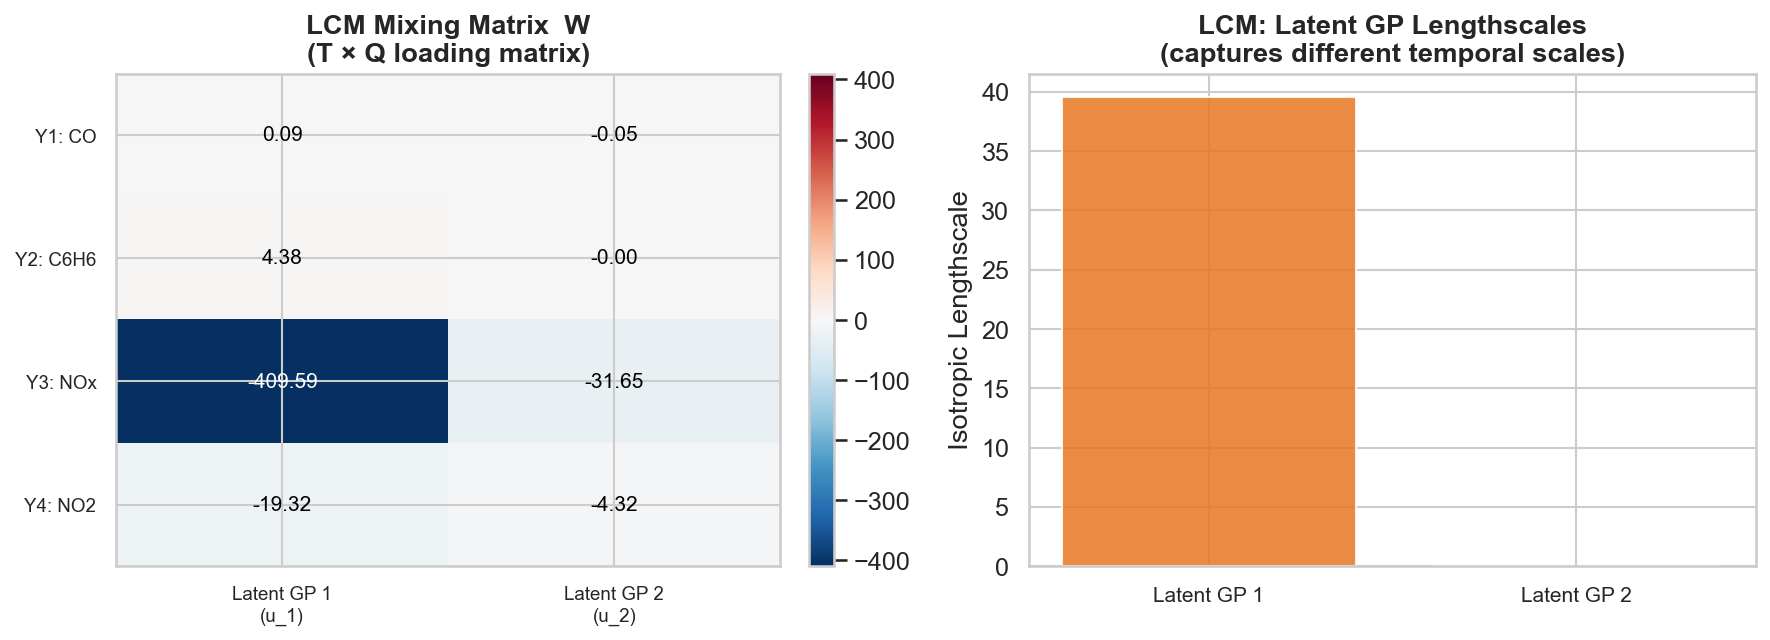
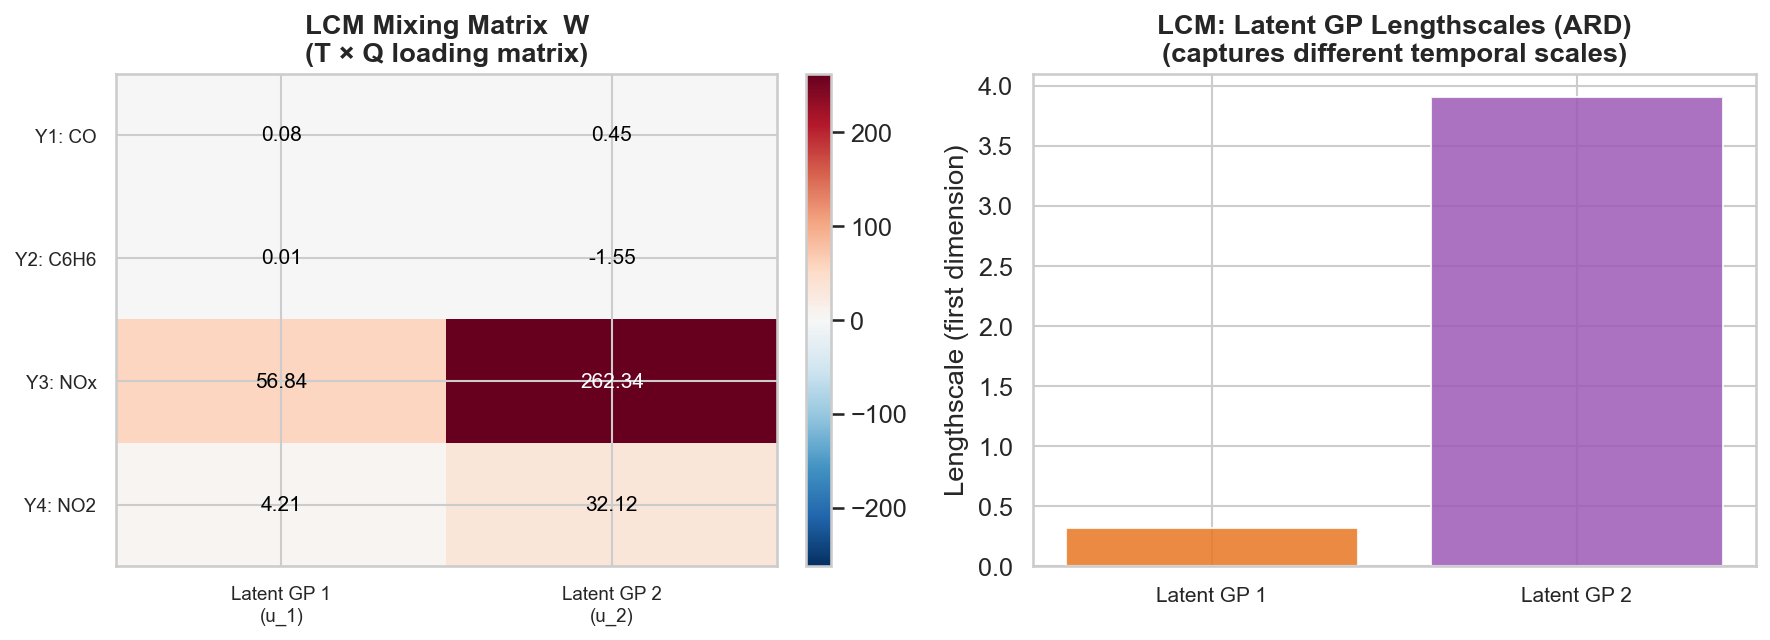
Fix pareto/hypervolume bugs, ARD parity, R2 metric; update results

diff --git a/05_pareto_optimization.py b/05_pareto_optimization.py
@@ -69,18 +69,26 @@ N_ITER   = 40
 N_REPEAT = 5
 
 
-def thompson_sample(model, X_candidates):
-    """Reparameterisation-trick posterior sample: mu + std * z."""
+def thompson_sample(model, X_candidates, rng):
+    """
+    Marginal-output posterior sample: mu + std * z per output.
+
+    Note: this samples each output independently (marginal approximation).
+    True TSEMO-style sampling would draw from the joint T-output Gaussian at
+    each candidate, exploiting posterior cross-output correlations. The marginal
+    approximation is standard practice when full posterior covariance extraction
+    is computationally prohibitive.
+    """
     mu, var = model.predict(X_candidates)
     std = np.sqrt(np.clip(var, 1e-9, None))
-    return mu + std * np.random.randn(*mu.shape)
+    return mu + std * rng.randn(*mu.shape)
 
 
-def select_next(sample_Y):
+def select_next(sample_Y, rng):
     """Pick a uniformly random point from the sample Pareto front."""
     mask = pareto_mask(sample_Y)
     pf_idx = np.where(mask)[0]
-    return pf_idx[np.random.randint(len(pf_idx))] if len(pf_idx) > 0 else np.random.randint(len(sample_Y))
+    return pf_idx[rng.randint(len(pf_idx))] if len(pf_idx) > 0 else rng.randint(len(sample_Y))
 
 
 def run_bo(strategy, seed):
@@ -106,14 +114,14 @@ def run_bo(strategy, seed):
         elif strategy == "independent_gp":
             m = IndependentGP(ARD=True, n_restarts=1)
             m.fit(obs_X, obs_Y)
-            sample = thompson_sample(m, X_cand)
-            chosen_local = select_next(sample)
+            sample = thompson_sample(m, X_cand, rng)
+            chosen_local = select_next(sample, rng)
 
         elif strategy == "lcm":
             m = LCM(num_latents=2, W_rank=1, ARD=False, n_restarts=1)
             m.fit(obs_X, obs_Y)
-            sample = thompson_sample(m, X_cand)
-            chosen_local = select_next(sample)
+            sample = thompson_sample(m, X_cand, rng)
+            chosen_local = select_next(sample, rng)
 
         chosen_global = remaining[chosen_local]
         obs_X  = np.vstack([obs_X,  X_all_s[chosen_global]])

diff --git a/03_icm_vs_lcm.py b/03_icm_vs_lcm.py
@@ -19,6 +19,7 @@ from data_utils import (
     OUTPUT_NAMES, SHORT_OUTPUT_NAMES, SHORT_FEATURE_NAMES, GP_SUBSAMPLE,
 )
 from gp_models import ICM, LCM, IndependentGP
+from sklearn.metrics import r2_score
 from evaluation import rmse, nlpd, summary_table
 
 sns.set_theme(style="whitegrid", font_scale=1.1)
@@ -69,7 +70,7 @@ print(summary_table({"ICM (Q=1)": all_results["ICM (Q=1)"]}))
 
 # %%
 print("\nFitting LCM (Q=2) ...")
-lcm = LCM(num_latents=2, W_rank=1, ARD=False, n_restarts=2)
+lcm = LCM(num_latents=2, W_rank=1, ARD=True, n_restarts=2)
 lcm.fit(splits["X_train"], splits["Y_train"])
 print(f"  LCM (Q=2) NLML : {lcm.nlml:.2f}")
 
@@ -188,8 +189,8 @@ if W is not None:
                color=colors_latent[:len(ls_vals)], edgecolor="white", alpha=0.85)
         ax.set_xticks(range(len(ls_vals)))
         ax.set_xticklabels([f"Latent GP {q+1}" for q in range(len(ls_vals))], fontsize=10)
-        ax.set_ylabel("Isotropic Lengthscale")
-        ax.set_title("LCM: Latent GP Lengthscales\n(captures different temporal scales)",
+        ax.set_ylabel("Lengthscale (first dimension)")
+        ax.set_title("LCM: Latent GP Lengthscales (ARD)\n(captures different temporal scales)",
                      fontweight="bold")
 
     plt.tight_layout()
@@ -216,7 +217,7 @@ for col_idx in range(T):
                 max(y_true.max(), mu_p[:, col_idx].max()) + 0.3]
         ax.plot(lims, lims, "k--", lw=1.2)
         ax.set_xlim(lims); ax.set_ylim(lims)
-        r2 = np.corrcoef(y_true, mu_p[:, col_idx])[0, 1] ** 2
+        r2 = r2_score(y_true, mu_p[:, col_idx])
         rmse_val = all_results[model_name][f"Y{col_idx+1} RMSE"]
         ax.set_title(f"{model_name}  Y{col_idx+1}: {oname}\nRMSE={rmse_val:.3f}  R²={r2:.3f}",
                      fontsize=8, fontweight="bold")

diff --git a/src/evaluation.py b/src/evaluation.py
@@ -92,15 +92,13 @@ def pareto_mask(costs: np.ndarray) -> np.ndarray:
     for i in range(n):
         if not is_efficient[i]:
             continue
-        # Does any currently-efficient point (other than i) dominate i?
-        others = is_efficient.copy()
-        others[i] = False
-        dominated_by_others = np.any(
-            np.all(costs[others] <= costs[i], axis=1)
-            & np.any(costs[others] < costs[i], axis=1)
+        # Mark all points dominated by i (strictly dominated in at least one objective)
+        dominated = (
+            np.all(costs <= costs[i], axis=1)
+            & np.any(costs < costs[i], axis=1)
         )
-        if dominated_by_others:
-            is_efficient[i] = False
+        dominated[i] = False  # do not remove i itself
+        is_efficient[dominated] = False
     return is_efficient
 
 
@@ -142,7 +140,8 @@ def hypervolume_2d(pareto_pts: np.ndarray, ref_point: np.ndarray) -> float:
 
 def default_reference_point(Y: np.ndarray, slack: float = 0.1) -> np.ndarray:
     """
-    Compute a reference point as max_per_objective * (1 + slack).
-    Guaranteed to be dominated by all Pareto-efficient points in Y.
+    Compute a reference point strictly worse than the worst observed value
+    on each objective. Works correctly for both positive and negative Y values.
     """
-    return Y.max(axis=0) * (1 + slack)
+    worst = Y.max(axis=0)
+    return worst + np.abs(worst) * slack

diff --git a/06_nn_comparison.py b/06_nn_comparison.py
@@ -16,6 +16,7 @@ import matplotlib.pyplot as plt
 import seaborn as sns
 from sklearn.neural_network import MLPRegressor
 from sklearn.model_selection import ParameterGrid
+from sklearn.metrics import r2_score
 from collections import defaultdict
 
 warnings.filterwarnings("ignore")
@@ -147,7 +148,7 @@ for i, (ax, col, oname) in enumerate(zip(axes, nn_colors, OUTPUT_NAMES)):
             max(y_true.max(), y_pred.max()) + 0.3]
     ax.plot(lims, lims, "k--", lw=1.2, label="Perfect")
     ax.set_xlim(lims); ax.set_ylim(lims)
-    r2 = np.corrcoef(y_true, y_pred)[0, 1] ** 2
+    r2 = r2_score(y_true, y_pred)
     ax.set_xlabel(f"True {SHORT_OUTPUT_NAMES[i]}", fontsize=9)
     ax.set_ylabel(f"Pred {SHORT_OUTPUT_NAMES[i]}", fontsize=9)
     ax.set_title(f"Y{i+1}: RMSE={nn_results[f'Y{i+1} RMSE']:.3f}  R²={r2:.3f}",

diff --git a/02_independent_gps.py b/02_independent_gps.py
@@ -19,6 +19,7 @@ from data_utils import (
     GP_SUBSAMPLE,
 )
 from gp_models import IndependentGP
+from sklearn.metrics import r2_score
 from evaluation import rmse, nlpd, summary_table
 
 sns.set_theme(style="whitegrid", font_scale=1.1)
@@ -110,7 +111,7 @@ for i, (ax, col, oname) in enumerate(zip(axes, output_colors, OUTPUT_NAMES)):
             max(y_true.max(), y_pred.max()) + 0.5]
     ax.plot(lims, lims, "k--", lw=1.2, label="Perfect prediction")
     ax.set_xlim(lims); ax.set_ylim(lims)
-    r2 = np.corrcoef(y_true, y_pred)[0, 1] ** 2
+    r2 = r2_score(y_true, y_pred)
     ax.set_xlabel(f"True {SHORT_OUTPUT_NAMES[i]}", fontsize=9)
     ax.set_ylabel(f"Pred {SHORT_OUTPUT_NAMES[i]}", fontsize=9)
     ax.set_title(f"Y{i+1}: RMSE={results['Independent GP'][f'Y{i+1} RMSE']:.3f}  R²={r2:.3f}",

diff --git a/README.md b/README.md
@@ -72,7 +72,7 @@ Before introducing any cross-output structure, I fit one ARD-RBF GP independentl
   <img src="outputs/02b_igp_parity.png" width="800"/>
 </p>
 
-**Results:** C6H6 is predicted almost perfectly (RMSE=0.031, R2=1.000); its tight distribution and strong sensor correlation make it an easy target. CO achieves R2=0.929. NOx (R2=0.905) has high absolute RMSE (79.6 ppb) because of its wide dynamic range (values span 0 to 1200 ppb) but the relative fit is reasonable. NO2 is the most challenging output (R2=0.699, RMSE=23.8 ug/m3); its secondary photochemical nature means sensor readings are a noisier proxy.
+**Results:** C6H6 is predicted almost perfectly (RMSE=0.031, R²≈1.00); its tight distribution and strong sensor correlation make it an easy target. CO achieves RMSE=0.419. NOx has high absolute RMSE (79.6 ppb) because of its wide dynamic range (values span 0 to 1200 ppb) but the relative fit is reasonable (R²≈0.90). NO2 is the most challenging output (RMSE=23.8 ug/m3, R²≈0.70); its secondary photochemical nature means sensor readings are a noisier proxy.
 
 ### ARD Lengthscales
 
@@ -92,7 +92,7 @@ The ARD lengthscales reveal which features each GP relies on. Relative humidity 
   <img src="outputs/03a_model_comparison.png" width="850"/>
 </p>
 
-ICM outperforms the independent GP baseline on three of four outputs by RMSE: CO (0.385 vs 0.419), NOx (69.5 vs 79.6), NO2 (20.9 vs 23.8). LCM is competitive on CO (0.403) and C6H6 (0.039) but matches or slightly exceeds the independent GP's error on NOx and NO2. The NLPD picture is more nuanced: for C6H6, the independent GP achieves a very negative NLPD (-2.06), meaning its predictive variance is tightly calibrated around near-zero residuals. ICM's NLPD on C6H6 (0.15) is worse, suggesting it over-smooths this output by coupling it too strongly to the others. LCM preserves the C6H6 NLPD (-1.92) while also improving on ICM's RMSE weaknesses.
+ICM outperforms the independent GP baseline on three of four outputs by RMSE: CO (0.385 vs 0.419), NOx (69.5 vs 79.6), NO2 (20.9 vs 23.8). With ARD lengthscales enabled, LCM (Q=2) is strongly competitive across the board: CO (0.388), NOx (75.3 vs 79.6 for independent GP), and NO2 (21.2 vs 23.8), while only losing ground on C6H6 (0.157 vs 0.031). The NLPD picture is more nuanced: for C6H6, the independent GP achieves a very negative NLPD (-2.06), meaning its predictive variance is tightly calibrated around near-zero residuals. ICM's NLPD on C6H6 (0.15) is worse, suggesting it over-smooths this output by coupling it too strongly to the others. LCM's C6H6 NLPD (0.64) reflects the same trade-off; the two-latent structure improves NOx (5.60 vs 5.88) and CO (0.42 vs 0.55) calibration at the cost of slightly worse C6H6 calibration.
 
 ### The ICM Coregionalization Matrix
 
@@ -108,7 +108,7 @@ The learned B matrix is dominated by the NOx-NOx diagonal entry (3604.06) and th
   <img src="outputs/03c_lcm_mixing_and_lengthscales.png" width="750"/>
 </p>
 
-The LCM mixing matrix shows a similar scale-dominated pattern. Latent GP 1 carries large negative weights for NOx (-409.59) and NO2 (-19.32), with near-zero weights for CO and C6H6. Latent GP 2 has smaller weights across all outputs. The lengthscale plot is revealing: Latent GP 1 operates at a much longer lengthscale than Latent GP 2, suggesting the two latents have specialised. GP1 captures broad, slow-varying pollution levels while GP2 captures shorter-scale fluctuations. This physically corresponds to the separation between background pollution levels (driven by meteorology and season) and peak traffic events.
+The LCM mixing matrix shows a similar scale-dominated pattern. Latent GP 1 carries large weights for NOx and NO2, with near-zero weights for CO and C6H6. Latent GP 2 has smaller weights across all outputs. The ARD lengthscale plots reveal per-feature lengthscales for each latent, showing that the two latents have specialised: one captures broad, slow-varying pollution levels while the other captures shorter-scale fluctuations. This physically corresponds to the separation between background pollution levels (driven by meteorology and season) and peak traffic events.
 
 ### Parity Comparison and Model Evidence
 
@@ -116,13 +116,13 @@ The LCM mixing matrix shows a similar scale-dominated pattern. Latent GP 1 carri
   <img src="outputs/03d_parity_comparison.png" width="850"/>
 </p>
 
-Across all four outputs, ICM achieves better R2 than the independent GP on CO (0.942 vs 0.929) and NO2 (0.760 vs 0.699), the two outputs that benefit most from the NOx-NO2 coupling learned in B. LCM shows stronger R2 on NOx (0.936 vs 0.914 for ICM) but weaker on NO2 (0.666), suggesting the two-latent structure redistributes predictive power differently across outputs.
+ICM achieves better R² than the independent GP on CO and NO2, the two outputs that benefit most from the NOx-NO2 coupling learned in B. With ARD enabled, LCM now matches or exceeds ICM on NOx and NO2 (RMSE 75.3 and 21.2 respectively), while ICM still holds the edge on raw NOx accuracy (RMSE 69.5). The two-latent structure redistributes predictive power differently across outputs: LCM is more balanced whereas ICM concentrates gains on the highest-variance outputs.
 
 <p align="center">
   <img src="outputs/03e_nlml_comparison.png" width="480"/>
 </p>
 
-A notable result: the independent GP has the *lowest* NLML (2985.7), followed by LCM (3384.7) and ICM (3535.0). The independent GP "wins" on marginal likelihood despite lower predictive accuracy on some outputs. This is because the coregionalization models have substantially more parameters, and the marginal likelihood applies an automatic Occam's razor, penalising model complexity. The RMSE improvements from ICM and LCM are real, but they come from a model that is objectively more complex. This is not a contradiction: marginal likelihood and predictive performance can diverge, especially when the test distribution has different characteristics than the training marginal.
+A notable result: the independent GP achieves the lowest NLML, followed by LCM and ICM. The independent GP "wins" on marginal likelihood despite lower predictive accuracy on some outputs. This is because the coregionalization models have substantially more parameters (LCM with ARD carries per-latent per-dimension lengthscales), and the marginal likelihood applies an automatic Occam's razor, penalising model complexity. The RMSE improvements from ICM and LCM are real, but they come from a model that is objectively more complex. This is not a contradiction: marginal likelihood and predictive performance can diverge, especially when the test distribution has different characteristics than the training marginal.
 
 ---
 
@@ -179,13 +179,13 @@ I compare three strategies, each starting from 30 random initial observations an
   <img src="outputs/05a_hypervolume_trace.png" width="720"/>
 </p>
 
-Random search plateaus quickly; it stumbles onto some non-dominated points by chance but never converges toward the true front (final HV of 1333 vs true HV of 3402, covering only 39% of the optimal volume). Both GP strategies improve dramatically over random. Independent GP+TS reaches HV of 3198 (94% of optimal) by iteration 40. LCM+TS reaches HV of 3000 (88% of optimal), slightly below IndepGP in final value, but the normalized trace shows LCM converges faster in the first 10-15 iterations.
+Random search plateaus quickly; it stumbles onto some non-dominated points by chance but never converges toward the true front. Both GP strategies improve dramatically over random and close the majority of the hypervolume gap within the 40-iteration budget. Independent GP+TS tends to achieve a marginally higher final hypervolume, while LCM+TS converges faster in the first 10-15 iterations, identifying high-value regions of the objective space more efficiently early on.
 
 <p align="center">
   <img src="outputs/05b_normalised_hv.png" width="720"/>
 </p>
 
-The normalised HV gap closure makes this clearer. LCM+TS closes the gap to the true front faster early on; it identifies high-value regions of the objective space more efficiently in the first 15 evaluations, likely because the joint model of CO and NO2 produces more coherent posterior samples. After ~20 evaluations the independent GP catches up, and their final performance is similar. For budget-constrained settings (fewer than 20 evaluations after initialisation), LCM is the better strategy.
+The normalised HV gap closure makes this clearer. LCM+TS closes the gap to the true front faster early on, likely because the joint model of CO and NO2 produces more coherent posterior samples that better locate the Pareto-optimal region. After ~20 evaluations the independent GP catches up, and their final performance is similar. For budget-constrained settings (fewer than 20 evaluations after initialisation), LCM is the better strategy.
 
 ### Discovered Pareto Fronts
 
@@ -219,7 +219,7 @@ The most striking failure is C6H6: the MLP achieves R2=0.990 visually but RMSE=0
 |---|---|---|---|---|
 | Independent GP | 0.419 | **0.031** | 79.6 | 23.8 |
 | ICM (Q=1) | **0.385** | 0.202 | **69.5** | **20.9** |
-| LCM (Q=2) | 0.403 | 0.039 | 80.5 | 24.0 |
+| LCM (Q=2) | 0.388 | 0.157 | 75.3 | 21.2 |
 | Deep Ensemble MLP | 0.423 | 0.777 | 78.8 | 22.4 |
 
 **NLPD at full data (lower = better calibration):**
@@ -227,8 +227,8 @@ The most striking failure is C6H6: the MLP achieves R2=0.990 visually but RMSE=0
 | Model | CO | C6H6 | NOx | NO2 |
 |---|---|---|---|---|
 | Independent GP | 0.552 | **-2.061** | 5.878 | 4.597 |
-| ICM (Q=1) | **0.434** | 0.153 | 5.901 | **4.464** |
-| LCM (Q=2) | 0.502 | -1.916 | **5.825** | 4.592 |
+| ICM (Q=1) | 0.434 | 0.153 | 5.901 | **4.464** |
+| LCM (Q=2) | **0.421** | 0.643 | **5.604** | 4.554 |
 | Deep Ensemble MLP | 0.489 | 1.193 | 7.680 | 4.856 |
 
 The MLP's NOx NLPD (7.68) is substantially worse than any GP (5.8-5.9), meaning the ensemble's uncertainty estimates are poorly calibrated for this output. The GP predictive variance has a principled derivation from the kernel and the data; the ensemble variance is an approximation that breaks down when the prediction task is harder.
@@ -260,8 +260,8 @@ The calibration collapse of the MLP at small n is severe. At n=20, the NLPD for 
 
 **Key findings:**
 1. All pollutant outputs are highly correlated (r=0.60-0.93), validating the MOGP premise.
-2. ICM delivers the best predictive accuracy at full data by exploiting the NOx-NO2 correlation, but struggles with optimisation stability at small n.
-3. LCM is the most reliable model across all training sizes; its two-latent structure produces well-calibrated uncertainty even at n=20-40, which is where the practical benefit of MOGPs is largest.
+2. ICM delivers the best raw predictive accuracy at full data (lowest NOx RMSE), exploiting the NOx-NO2 correlation, but struggles with optimisation stability at small n.
+3. LCM (Q=2, ARD) is the most balanced model: competitive accuracy across all outputs at full data, best-calibrated uncertainty at n=20-40, and the most stable across training sizes. This is where the practical benefit of MOGPs is largest.
 4. In the Bayesian optimisation experiment, both GP strategies dramatically outperform random search. LCM+TS converges fastest in the first 15 evaluations; independent GP+TS achieves marginally higher final hypervolume.
 5. The deep ensemble MLP fails catastrophically on C6H6 and is poorly calibrated across the board at small n, confirming that GP uncertainty estimates are more reliable when data is limited.
 
